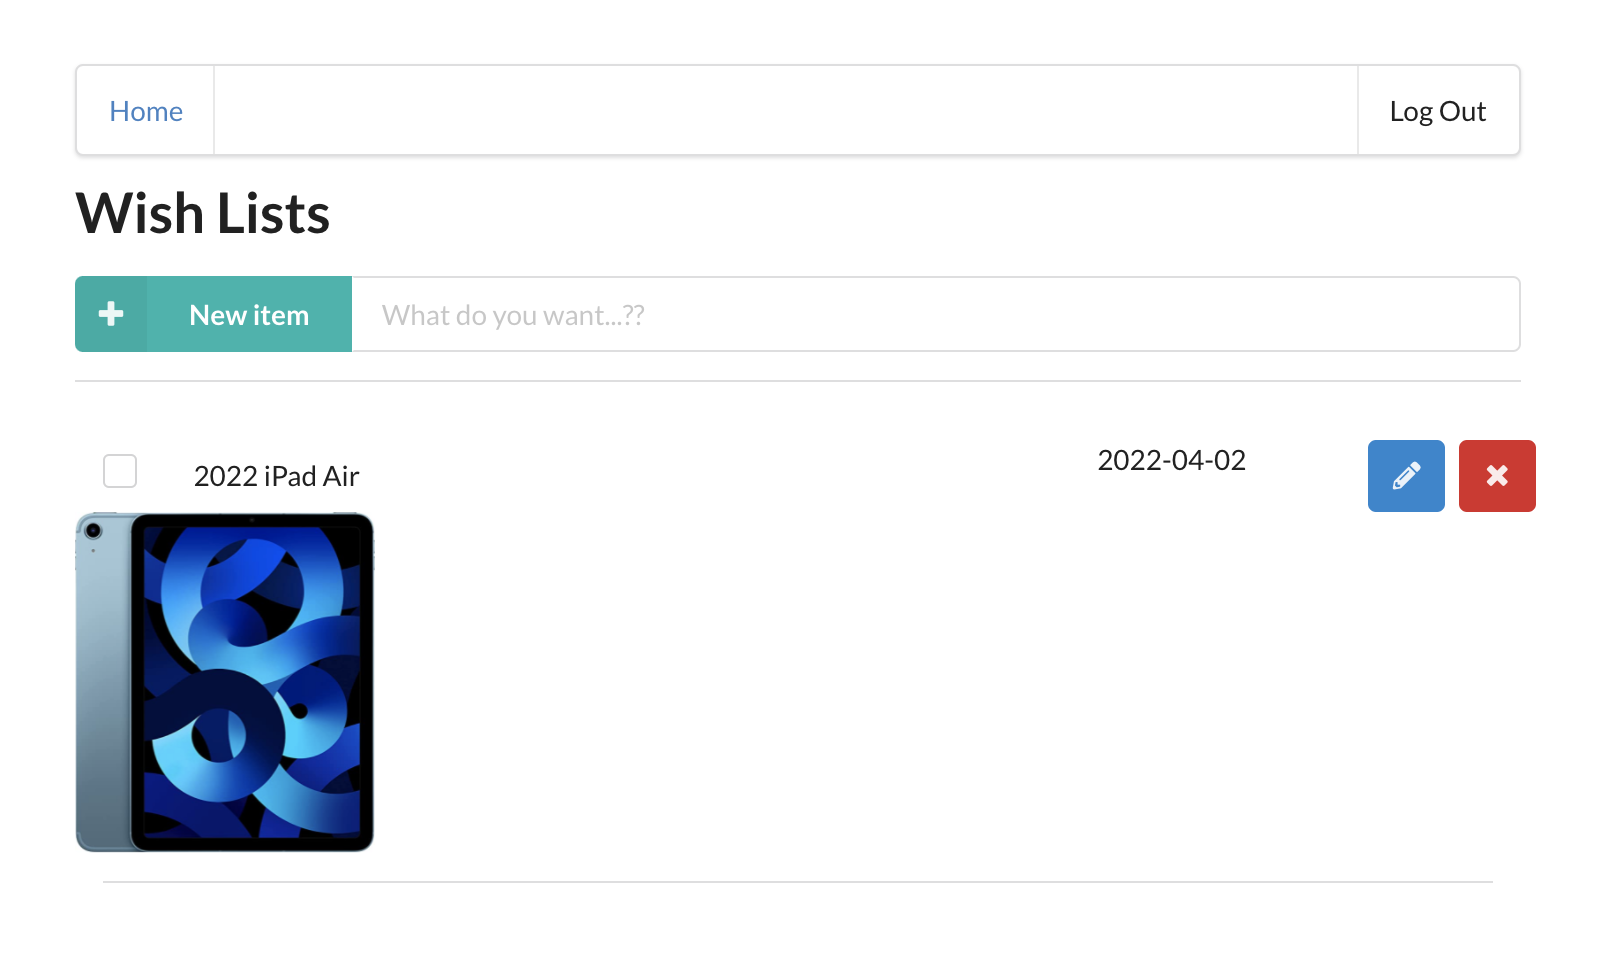
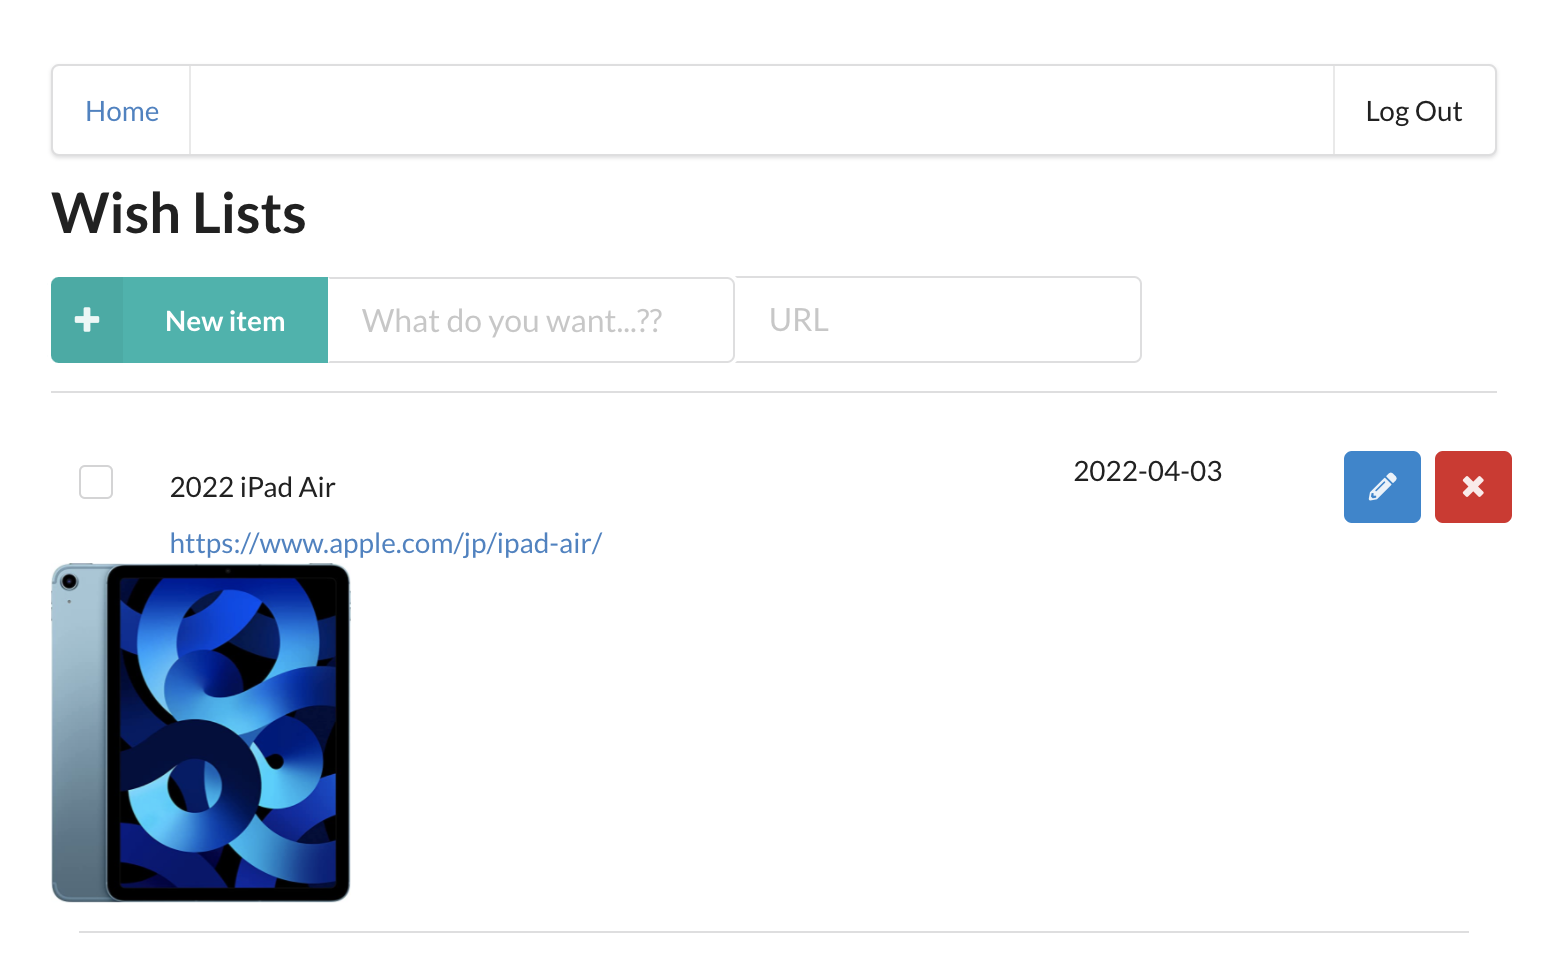
Add wish list url option

diff --git a/client/src/components/WishLists.tsx b/client/src/components/WishLists.tsx
@@ -13,6 +13,7 @@ import {
   Image,
   Loader
 } from 'semantic-ui-react'
+import Linkify from 'react-linkify';
 
 import { createWishList, deleteWishlist, getWishLists, patchWishList } from '../api/wishlists-api'
 import Auth from '../auth/Auth'
@@ -25,7 +26,8 @@ interface WishListsProps {
 
 interface WishListsState {
   wishLists: Wishlist[]
-  newWishListName: string
+  newWishListName: string,
+  newWishListUrl: string,
   loadingWishLists: boolean
 }
 
@@ -33,11 +35,16 @@ export class WishLists extends React.PureComponent<WishListsProps, WishListsStat
   state: WishListsState = {
     wishLists: [],
     newWishListName: '',
+    newWishListUrl: '',
     loadingWishLists: true
   }
 
   handleNameChange = (event: React.ChangeEvent<HTMLInputElement>) => {
     this.setState({ newWishListName: event.target.value })
+  }
+
+  handleUrlChange = (event: React.ChangeEvent<HTMLInputElement>) => {
+    this.setState({ newWishListUrl: event.target.value })
   }
 
   onEditButtonClick = (wishListId: string) => {
@@ -47,8 +54,10 @@ export class WishLists extends React.PureComponent<WishListsProps, WishListsStat
   onWishListCreate = async (event: React.ChangeEvent<HTMLButtonElement>) => {
     try {
       const dueDate = this.calculateDueDate()
+      console.log('state: ', this.state)
       const newWishList = await createWishList(this.props.auth.getIdToken(), {
         name: this.state.newWishListName,
+        url: this.state.newWishListUrl,
         dueDate
       })
       this.setState({
@@ -77,6 +86,7 @@ export class WishLists extends React.PureComponent<WishListsProps, WishListsStat
       await patchWishList(this.props.auth.getIdToken(), wishList.wishListId, {
         name: wishList.name,
         dueDate: wishList.dueDate,
+        url: wishList.url,
         done: !wishList.done
       })
       this.setState({
@@ -129,10 +139,16 @@ export class WishLists extends React.PureComponent<WishListsProps, WishListsStat
               content: 'New item',
               onClick: this.onWishListCreate
             }}
-            fluid
+            size='large'
             actionPosition="left"
             placeholder="What do you want...??"
             onChange={this.handleNameChange}
+          />
+          <Input
+            size='large'
+            actionPosition="left"
+            placeholder="URL"
+            onChange={this.handleUrlChange}
           />
         </Grid.Column>
         <Grid.Column width={16}>
@@ -195,6 +211,9 @@ export class WishLists extends React.PureComponent<WishListsProps, WishListsStat
                 >
                   <Icon name="delete" />
                 </Button>
+              </Grid.Column>
+              <Grid.Column width={15} floated="right">
+                <Linkify>{wishList.url}</Linkify>
               </Grid.Column>
               {wishList.attachmentUrl && (
                 <Image src={wishList.attachmentUrl} size="small" wrapped />

diff --git a/backend/src/businessLogic/wishLists.ts b/backend/src/businessLogic/wishLists.ts
@@ -25,7 +25,8 @@ export const createWishList = async (userId: string, newWishList: CreateWishList
     createdAt: new Date().toISOString(),
     name: newWishList.name,
     dueDate: newWishList.dueDate,
-    done: false
+    done: false,
+    url: newWishList.url,
   })
 }
 

diff --git a/client/src/config.ts b/client/src/config.ts
@@ -1,4 +1,4 @@
-const apiId = '0vtz2baz12'
+const apiId = '4rxxemrgrj'
 export const apiEndpoint = `https://${apiId}.execute-api.ap-northeast-1.amazonaws.com/dev`
 
 export const authConfig = {

diff --git a/backend/src/models/WishListItem.ts b/backend/src/models/WishListItem.ts
@@ -5,5 +5,6 @@ export interface WishListItem {
   name: string
   dueDate: string
   done: boolean
+  url?: string
   attachmentUrl?: string
 }

diff --git a/client/src/types/WishList.ts b/client/src/types/WishList.ts
@@ -4,5 +4,6 @@ export interface Wishlist {
   name: string
   dueDate: string
   done: boolean
+  url?: string
   attachmentUrl?: string
 }

diff --git a/client/src/types/UpdateWishListRequest.ts b/client/src/types/UpdateWishListRequest.ts
@@ -2,4 +2,5 @@ export interface UpdateWishListRequest {
   name: string
   dueDate: string
   done: boolean
+  url?: string
 }

diff --git a/backend/src/requests/CreateWishListRequest.ts b/backend/src/requests/CreateWishListRequest.ts
@@ -4,4 +4,5 @@
 export interface CreateWishListRequest {
   name: string
   dueDate: string
+  url?: string
 }

diff --git a/client/src/types/CreateWishListRequest.ts b/client/src/types/CreateWishListRequest.ts
@@ -1,4 +1,5 @@
 export interface CreateWishListRequest {
   name: string
   dueDate: string
+  url?: string
 }

diff --git a/README.md b/README.md
@@ -17,6 +17,7 @@ The application should store wish list items, and each wish list item contains t
 - `name` (string) - name of a wish list item (e.g. "PlayStation 5")
 - `dueDate` (string) - date and time by which a wish list item should be completed
 - `done` (boolean) - true if a wish list item was gotten, false otherwise
+- `url` (strijng) (optional) - a URL pointing to information of a wish list item
 - `attachmentUrl` (string) (optional) - a URL pointing to an image attached to a wish list item
 
 You might also store an id of a user who created a wish list item.
